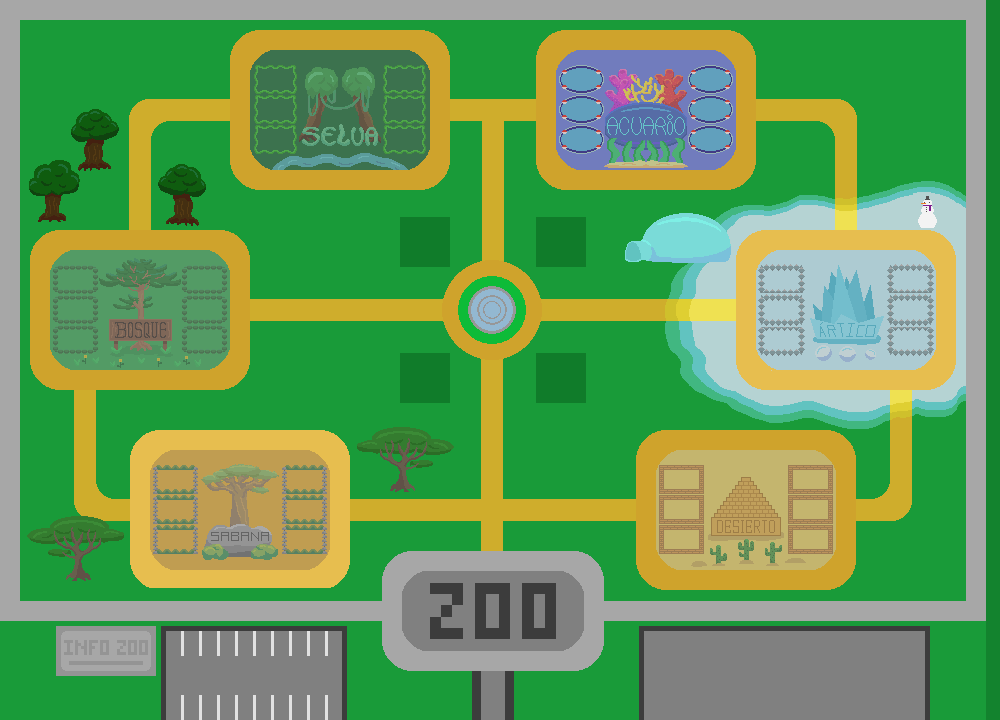
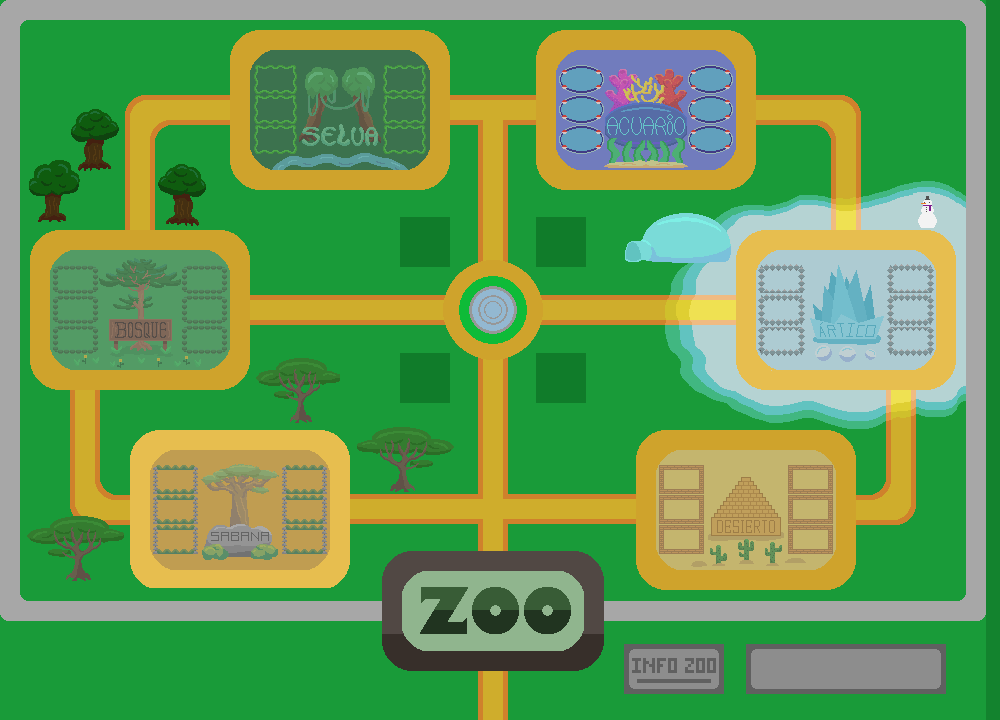
Creación de texto de información sobre excepciones y eventos, y creación de Excepciones para Zoologico

diff --git a/ProyectoFinal/src/main/java/Vistas/Paneles/PanelZoologico.java b/ProyectoFinal/src/main/java/Vistas/Paneles/PanelZoologico.java
@@ -24,7 +24,8 @@ public class PanelZoologico extends JPanel {
     private Boton[] selectHabitat;
     private Boton[] bTiendas;
     private Boton[] bOpciones;
-    private CuadroTexto[] cuadroInfo;
+    private CuadroTexto[] textoInfo;
+    private boolean textoInfoAux;
     private BufferedImage ImgBackground;
     private PanelInformacion panelInformacion;
 
@@ -37,11 +38,17 @@ public class PanelZoologico extends JPanel {
         listaPanelHabitat = new PanelHabitat[6];
         zoologico = zoo;
         openPanelHabitatIndex = 0;
+        textoInfoAux = false;
         this.setBackground(new Color(25,155,57));
         selectHabitat = new Boton[6];
         bTiendas = new Boton[4];
         bOpciones = new Boton[3];
-        cuadroInfo = new CuadroTexto[4];
+        textoInfo =  new CuadroTexto[2];
+        textoInfo[0] = new CuadroTexto("", new Color(141,141,141,0), Color.BLACK,"Arial",1);
+        addComp(textoInfo[0],0, 654,100, 30);
+        textoInfo[1] = new CuadroTexto("Precio Tiendas: "+zoologico.getPrecioTienda()+" $","Arial",1,13);
+        textoInfo[1].setOpaque(false);
+        addComp(textoInfo[1],773,654,200,30);
         InteraccionHabitat listenerHabitat = new InteraccionHabitat();
         InteraccionTienda listenerTienda = new InteraccionTienda();
         ImgBackground = ImageLoader.getInstancia().getImagenFondoZoo(6);
@@ -51,7 +58,7 @@ public class PanelZoologico extends JPanel {
         bOpciones[0].addActionListener(listenerHabitat);
         bOpciones[1].addActionListener(listenerTienda);
         bOpciones[2].addActionListener(listenerTienda);
-        addComp(bOpciones[2],56,626,100,50);
+        addComp(bOpciones[2],624,644,100,50);
         bOpciones[0].setVisible(false);
         int[] habPos = new int[]{50,150,250,555,655,755,250,450,50,50,450,250};
         for(int i=0; i<6; i++) {
@@ -68,11 +75,7 @@ public class PanelZoologico extends JPanel {
             bTiendas[i] = new Boton(Color.BLACK, true, "Tienda/imgTiendaLock" + i + ".png");
             bTiendas[i].addActionListener(listenerTienda);
             addComp(bTiendas[i],400+136*(i%2),yTPos[i],50,50);
-            cuadroInfo[i] = new CuadroTexto("-", "Arial", 1,13);
-            cuadroInfo[i].setOpaque(false);
-            addComp(cuadroInfo[i], 650, 635+20*i, 240, 20);
         }
-        cuadroInfo[0].setText("- Precio Tiendas: "+zoologico.getPrecioTienda()+" $");
     }
 
     public void addComp(Component comp, int x, int y, int width, int height) {
@@ -85,10 +88,10 @@ public class PanelZoologico extends JPanel {
         openPanelHabitat.toggleVisible();
         bOpciones[0].setVisible(openPanelHabitat.getVisible());
         bOpciones[2].setVisible(!openPanelHabitat.getVisible());
+        textoInfo[1].setVisible(!openPanelHabitat.getVisible());
         for(int i=0; i<6; i++) {
             selectHabitat[i].setVisible(!openPanelHabitat.getVisible());
             if(i<4) {
-                cuadroInfo[i].setVisible(!openPanelHabitat.getVisible());
                 bTiendas[i].setVisible(!openPanelHabitat.getVisible());
             }
         }
@@ -111,13 +114,13 @@ public class PanelZoologico extends JPanel {
         if(!panelInformacion.isVisible()) {
             if(index == -1)
                 add(listaPanelHabitat[openPanelHabitatIndex]);
-            repaint();
         }else{
             remove(listaPanelHabitat[openPanelHabitatIndex]);
-            if(index>=0 && recinto!=null)
+            if(index>=0 && recinto!=null) {
                 panelInformacion.openInfo(index, recinto.getListaAnimales());
-            repaint();
+            }
         }
+        repaint();
     }
 
     public void toggleBotones() {
@@ -130,15 +133,21 @@ public class PanelZoologico extends JPanel {
         }
     }
 
-
     public void setAlertHambre(int index, boolean alert) {
         if(alert) {
-            cuadroInfo[1].setText("- Animales con hambre");
             selectHabitat[index].changeImage("imgHabitatAlert" + index + ".png");
         } else {
-            cuadroInfo[1].setText("- ");
             selectHabitat[index].changeImage("imgHabitat" + index + ".png");
         }
+    }
+
+    public void setTextInfo(String text) {
+        text = "   "+text+"   ";
+        textoInfo[0].setBackground(new Color(141,141,141));
+        textoInfo[0].setForeground(Color.BLACK);
+        textoInfo[0].setBounds(0, 654, text.length()*7+20, 30);
+        textoInfo[0].setText(text);
+        textoInfoAux = !textoInfoAux;
     }
 
     private class InteraccionHabitat implements ActionListener {
@@ -147,7 +156,11 @@ public class PanelZoologico extends JPanel {
             for(int i=0; i<6; i++) {
                 if(event.getSource()==selectHabitat[i]) {
                     if(!listaPanelHabitat[i].getHabitat().isAdquirido()) {
-                        zoologico.comprarHabitat(i);
+                        try {
+                            zoologico.comprarHabitat(i);
+                        } catch (Exception exception) {
+                            PanelLinker.getPanelZoo().setTextInfo(exception.getMessage());
+                        }
                         if(listaPanelHabitat[i].getHabitat().isAdquirido()) {
                             PanelLinker.getPanelMenu().updateDinero(zoologico);
                             PanelLinker.getPanelMenu().addPanelComida();
@@ -179,13 +192,17 @@ public class PanelZoologico extends JPanel {
             }
             for(int i=0; i<4; i++) {
                 if(event.getSource() == bTiendas[i] && !zoologico.getTienda(i)) {
-                    zoologico.comprarTienda(i);
-                    PanelLinker.getPanelMenu().updateDinero(zoologico);
+                    try {
+                        zoologico.comprarTienda(i);
+                        PanelLinker.getPanelMenu().updateDinero(zoologico);
+                    } catch (Exception exception) {
+                        PanelLinker.getPanelZoo().setTextInfo(exception.getMessage());
+                    }
                     if(zoologico.getTienda(i)) {
                         bTiendas[i].changeImage("Tienda/imgTienda" + i + ".png");
-                        cuadroInfo[0].setText("- Precio Tiendas: "+zoologico.getPrecioTienda()+" $");
+                        textoInfo[1].setText("Precio Tiendas: "+zoologico.getPrecioTienda()+" $");
                         if(zoologico.getGananciaEsp(3)==4)
-                            cuadroInfo[0].setText("Tiendas compradas");
+                            textoInfo[1].setText("  Tiendas compradas");
                     }
                 }
             }
@@ -201,7 +218,14 @@ public class PanelZoologico extends JPanel {
 
     private class EscucharTiempo implements ActionListener {
         private int second;
-        public EscucharTiempo() { second = 0; }
+        private int textTimer;
+        private boolean textAux;
+
+        public EscucharTiempo() {
+            second = 0;
+            textTimer = 0;
+            textAux = false;
+        }
 
         @Override
         public void actionPerformed(ActionEvent e) {
@@ -218,9 +242,8 @@ public class PanelZoologico extends JPanel {
                                 listaPanelHabitat[i].getPanelRecinto(j).setAlertHambre(true);
                             if(recinto.getPenalizacion() == 100) {
                                 zoologico.rescateAnimal(i,j);
-                                cuadroInfo[2].setText("- El Recinto '"+recinto.getTipo().getNombre()+"' fue vaciado");
-                                cuadroInfo[3].setText("- Los animales fueron rescatado");
                                 listaPanelHabitat[i].getPanelRecinto(j).setAlertHambre(false);
+                                setTextInfo("El recinto '"+listaPanelHabitat[i].getHabitat().getRecinto(j).getTipo().getNombre()+"' fue vaciado, y los animales rescatados");
                             }
                         }
                     }
@@ -232,6 +255,20 @@ public class PanelZoologico extends JPanel {
             if(second==5) {
                 zoologico.getPaga();
                 second = 0;
+            }
+            if(!textoInfo[0].getText().isEmpty()) {
+                if(textAux != textoInfoAux) {
+                    textTimer = 0;
+                    textAux = textoInfoAux;
+                }
+                textTimer++;
+                textoInfo[0].setBackground(new Color(141, 141, 141, 250 - 50 * textTimer));
+                textoInfo[0].setForeground(new Color(0, 0, 0, 250 - 50 * textTimer));
+                if(textTimer==5) {
+                    textTimer = 0;
+                    textoInfo[0].setText("");
+                }
+                repaint();
             }
             if(PanelLinker.getPanelPrincipal()!=null)
                 PanelLinker.getPanelMenu().updateDinero(zoologico);

diff --git a/ProyectoFinal/src/main/java/Modelos/Utils/Zoologico.java b/ProyectoFinal/src/main/java/Modelos/Utils/Zoologico.java
@@ -1,6 +1,7 @@
 package Modelos.Utils;
 
 import Modelos.Enumeration.*;
+import Modelos.Exceptions.*;
 
 public class Zoologico {
     private Habitat[] listaHabitat;
@@ -29,7 +30,7 @@ public class Zoologico {
         }
     }
 
-    public void comprarTienda(int index) {
+    public void comprarTienda(int index) throws Exception {
         if (transaccion(precioTienda, 5)) {
             tiendas[index] = true;
             gananciaEsp[3]++;
@@ -37,7 +38,7 @@ public class Zoologico {
         }
     }
 
-    public void comprarAlimento(TipoComida comida, int index) {
+    public void comprarAlimento(TipoComida comida, int index) throws Exception {
         if(transaccion(comida.getPrecio()*index,0)) {
             for (int i = 0; i < index; i++)
                 almacen.addComida(comida);
@@ -54,14 +55,14 @@ public class Zoologico {
         }
     }
 
-    public void comprarHabitat(int index) {
+    public void comprarHabitat(int index) throws Exception {
         if(transaccion(listaHabitat[index].getTipo().getPrecio(),listaHabitat[index].getTipo().getPrecio()/100)) {
             gananciaEsp[0] += listaHabitat[index].getTipo().getPrecio()/100;
             listaHabitat[index].desbloquear();
         }
    }
 
-    public void comprarRecinto(Recinto recinto) {
+    public void comprarRecinto(Recinto recinto) throws Exception {
         int mult = 1;
         if(listaHabitat[recinto.getHabitat().getTipo().getValue()].getTemperatura())
             mult = 2;
@@ -71,16 +72,19 @@ public class Zoologico {
         }
     }
 
-    public void comprarAnimal(Recinto recinto, String nombre) {
+    public void comprarAnimal(Recinto recinto, String nombre) throws Exception {
         if(recinto.getCantidadAnimal()<10) {
             if (transaccion(recinto.getTipo().getPrecio(), recinto.getTipo().getPrecio()*5/100)) {
                 gananciaEsp[2] += recinto.getTipo().getPrecio()*5/100;
                 recinto.comprarAnimal(nombre);
             }
+        } else {
+            throw new MaximoAnimalesRecintoException("Cantidad Máxima de Animales [10]");
         }
+
     }
 
-    public void comprarTemperatura(int index) {
+    public void comprarTemperatura(int index) throws Exception {
         if(transaccion(listaHabitat[index].getTipo().getprecioTemperatura(),0)) {
             listaHabitat[index].desblTemperatura();
             for(int i=0; i<6; i++) {
@@ -93,13 +97,13 @@ public class Zoologico {
     }
 
 
-    public boolean transaccion(int precio, int bonus) {
+    public boolean transaccion(int precio, int bonus) throws Exception {
         if(dinero >= precio) {
             dinero -= precio;
             gananciaTotal += bonus;
             return true;
         } else {
-            return false;
+            throw new PagoInsuficienteException("Pago Insuficiente");
         }
     }
 

diff --git a/ProyectoFinal/src/main/java/Vistas/Paneles/PanelComida.java b/ProyectoFinal/src/main/java/Vistas/Paneles/PanelComida.java
@@ -56,10 +56,14 @@ public class PanelComida extends JPanel {
         public void actionPerformed(ActionEvent event) {
             for(int i=0; i<7; i++) {
                 if(event.getSource() == bComprar[i]) {
-                    Zoologico zoo = PanelLinker.getPanelPrincipal().getZoologico();
-                    zoo.comprarAlimento(TipoComida.values()[i],1);
-                    updateTexto(TipoComida.values()[i]);
-                    PanelLinker.getPanelMenu().updateDinero(zoo);
+                    try {
+                        Zoologico zoo = PanelLinker.getPanelPrincipal().getZoologico();
+                        zoo.comprarAlimento(TipoComida.values()[i],1);
+                        updateTexto(TipoComida.values()[i]);
+                        PanelLinker.getPanelMenu().updateDinero(zoo);
+                    } catch (Exception exception) {
+                        PanelLinker.getPanelZoo().setTextInfo(exception.getMessage());
+                    }
                 }
             }
         }
@@ -69,10 +73,14 @@ public class PanelComida extends JPanel {
         public void actionPerformed(ActionEvent event) {
             for(int i=0; i<7; i++) {
                 if(event.getSource() == bComprarx10[i]) {
-                    Zoologico zoo = PanelLinker.getPanelPrincipal().getZoologico();
-                    zoo.comprarAlimento(TipoComida.values()[i],10);
-                    updateTexto(TipoComida.values()[i]);
-                    PanelLinker.getPanelMenu().updateDinero(zoo);
+                    try {
+                        Zoologico zoo = PanelLinker.getPanelPrincipal().getZoologico();
+                        zoo.comprarAlimento(TipoComida.values()[i],10);
+                        updateTexto(TipoComida.values()[i]);
+                        PanelLinker.getPanelMenu().updateDinero(zoo);
+                    } catch (Exception exception) {
+                        PanelLinker.getPanelZoo().setTextInfo(exception.getMessage());
+                    }
                 }
             }
         }

diff --git a/ProyectoFinal/src/main/java/Vistas/Paneles/PanelMenu.java b/ProyectoFinal/src/main/java/Vistas/Paneles/PanelMenu.java
@@ -122,9 +122,13 @@ public class PanelMenu extends JPanel {
                 return;
             for(int i=0; i<6; i++) {
                 if(habitat.getRecinto(i).getTipo() != null && habitat.getRecinto(i).getTipo() == tipoAnimal) {
-                    PanelLinker.getPanelPrincipal().getZoologico().comprarAnimal(habitat.getRecinto(i), insertText.getText()) ;
-                    updateDinero(PanelLinker.getPanelPrincipal().getZoologico());
-                    insertText.setText(tipoAnimal.getNombre());
+                    try {
+                        PanelLinker.getPanelPrincipal().getZoologico().comprarAnimal(habitat.getRecinto(i), insertText.getText()) ;
+                        updateDinero(PanelLinker.getPanelPrincipal().getZoologico());
+                        insertText.setText(tipoAnimal.getNombre());
+                    } catch (Exception exception) {
+                        PanelLinker.getPanelZoo().setTextInfo(exception.getMessage());
+                    }
                     return;
                 }
             }

diff --git a/ProyectoFinal/src/main/java/Vistas/Paneles/PanelHabitat.java b/ProyectoFinal/src/main/java/Vistas/Paneles/PanelHabitat.java
@@ -61,10 +61,14 @@ public class PanelHabitat extends JPanel {
     private class ComprarTemperatura implements ActionListener {
         @Override
         public void actionPerformed(ActionEvent event) {
-            PanelLinker.getPanelPrincipal().getZoologico().comprarTemperatura(habitat.getTipo().getValue());
-            if(habitat.getTemperatura()) {
-                PanelLinker.getPanelMenu().updateDinero(PanelLinker.getPanelPrincipal().getZoologico());
-                removeBoton(temperatura);
+            try {
+                PanelLinker.getPanelPrincipal().getZoologico().comprarTemperatura(habitat.getTipo().getValue());
+                if(habitat.getTemperatura()) {
+                    PanelLinker.getPanelMenu().updateDinero(PanelLinker.getPanelPrincipal().getZoologico());
+                    removeBoton(temperatura);
+                }
+            } catch (Exception exception) {
+                PanelLinker.getPanelZoo().setTextInfo(exception.getMessage());
             }
         }
     }

diff --git a/ProyectoFinal/src/main/java/Vistas/Paneles/PanelRecinto.java b/ProyectoFinal/src/main/java/Vistas/Paneles/PanelRecinto.java
@@ -113,7 +113,11 @@ public class PanelRecinto extends JPanel implements Runnable{
         @Override
         public void actionPerformed(ActionEvent event) {
             if(event.getSource() == botonComprar && !(recinto.getHabitat().isComprando())){
-                PanelLinker.getPanelPrincipal().getZoologico().comprarRecinto(recinto);
+                try {
+                    PanelLinker.getPanelPrincipal().getZoologico().comprarRecinto(recinto);
+                } catch (Exception exception) {
+                    PanelLinker.getPanelZoo().setTextInfo(exception.getMessage());
+                }
                 if(recinto.getAdquirido()) {
                     PanelLinker.getPanelMenu().updateDinero(PanelLinker.getPanelPrincipal().getZoologico());
                     togglePanelSelect();

diff --git a/ProyectoFinal/src/main/java/Vistas/Utils/CuadroTexto.java b/ProyectoFinal/src/main/java/Vistas/Utils/CuadroTexto.java
@@ -23,6 +23,14 @@ public class CuadroTexto extends JLabel {
         this.setFont(new Font(fuente, estilo, 15));
     }
 
+    public CuadroTexto(String texto, Color bg, Color color, String fuente, int estilo, int size) {
+        super(texto);
+        this.setOpaque(true);
+        this.setBackground(bg);
+        this.setForeground(color);
+        this.setFont(new Font(fuente, estilo, size));
+    }
+
     public CuadroTexto(String texto, String fuente, int estilo) {
         super(texto);
         this.setOpaque(true);

diff --git a/ProyectoFinal/src/main/java/Modelos/Utils/Recinto.java b/ProyectoFinal/src/main/java/Modelos/Utils/Recinto.java
@@ -48,7 +48,7 @@ public class Recinto {
             else if(hambre<(30-getCantidadAnimal()))
                 penalizacion = 5;
             else if(hambre<(40-getCantidadAnimal()))
-                penalizacion = 10;
+                penalizacion = 100;
             else if(hambre<(50-getCantidadAnimal()))
                 penalizacion = 15;
             else {

diff --git a/ProyectoFinal/src/main/java/Modelos/Exceptions/PagoInsuficienteException.java b/ProyectoFinal/src/main/java/Modelos/Exceptions/PagoInsuficienteException.java
@@ -1,0 +1,9 @@
+package Modelos.Exceptions;
+
+/** Esta excepción es resultante de un precio del producto mayor al valor de la moneda entregada */
+public class PagoInsuficienteException extends Exception {
+    public PagoInsuficienteException(String errorMessage) {
+        super(errorMessage);
+    }
+}
+

diff --git a/ProyectoFinal/src/main/java/Modelos/Exceptions/MaximoAnimalesRecintoException.java b/ProyectoFinal/src/main/java/Modelos/Exceptions/MaximoAnimalesRecintoException.java
@@ -1,0 +1,9 @@
+package Modelos.Exceptions;
+
+/** Esta excepción es resultante de producto sin retirar del expendedor */
+public class MaximoAnimalesRecintoException extends Exception {
+    public MaximoAnimalesRecintoException(String errorMessage) {
+        super(errorMessage);
+    }
+}
+
